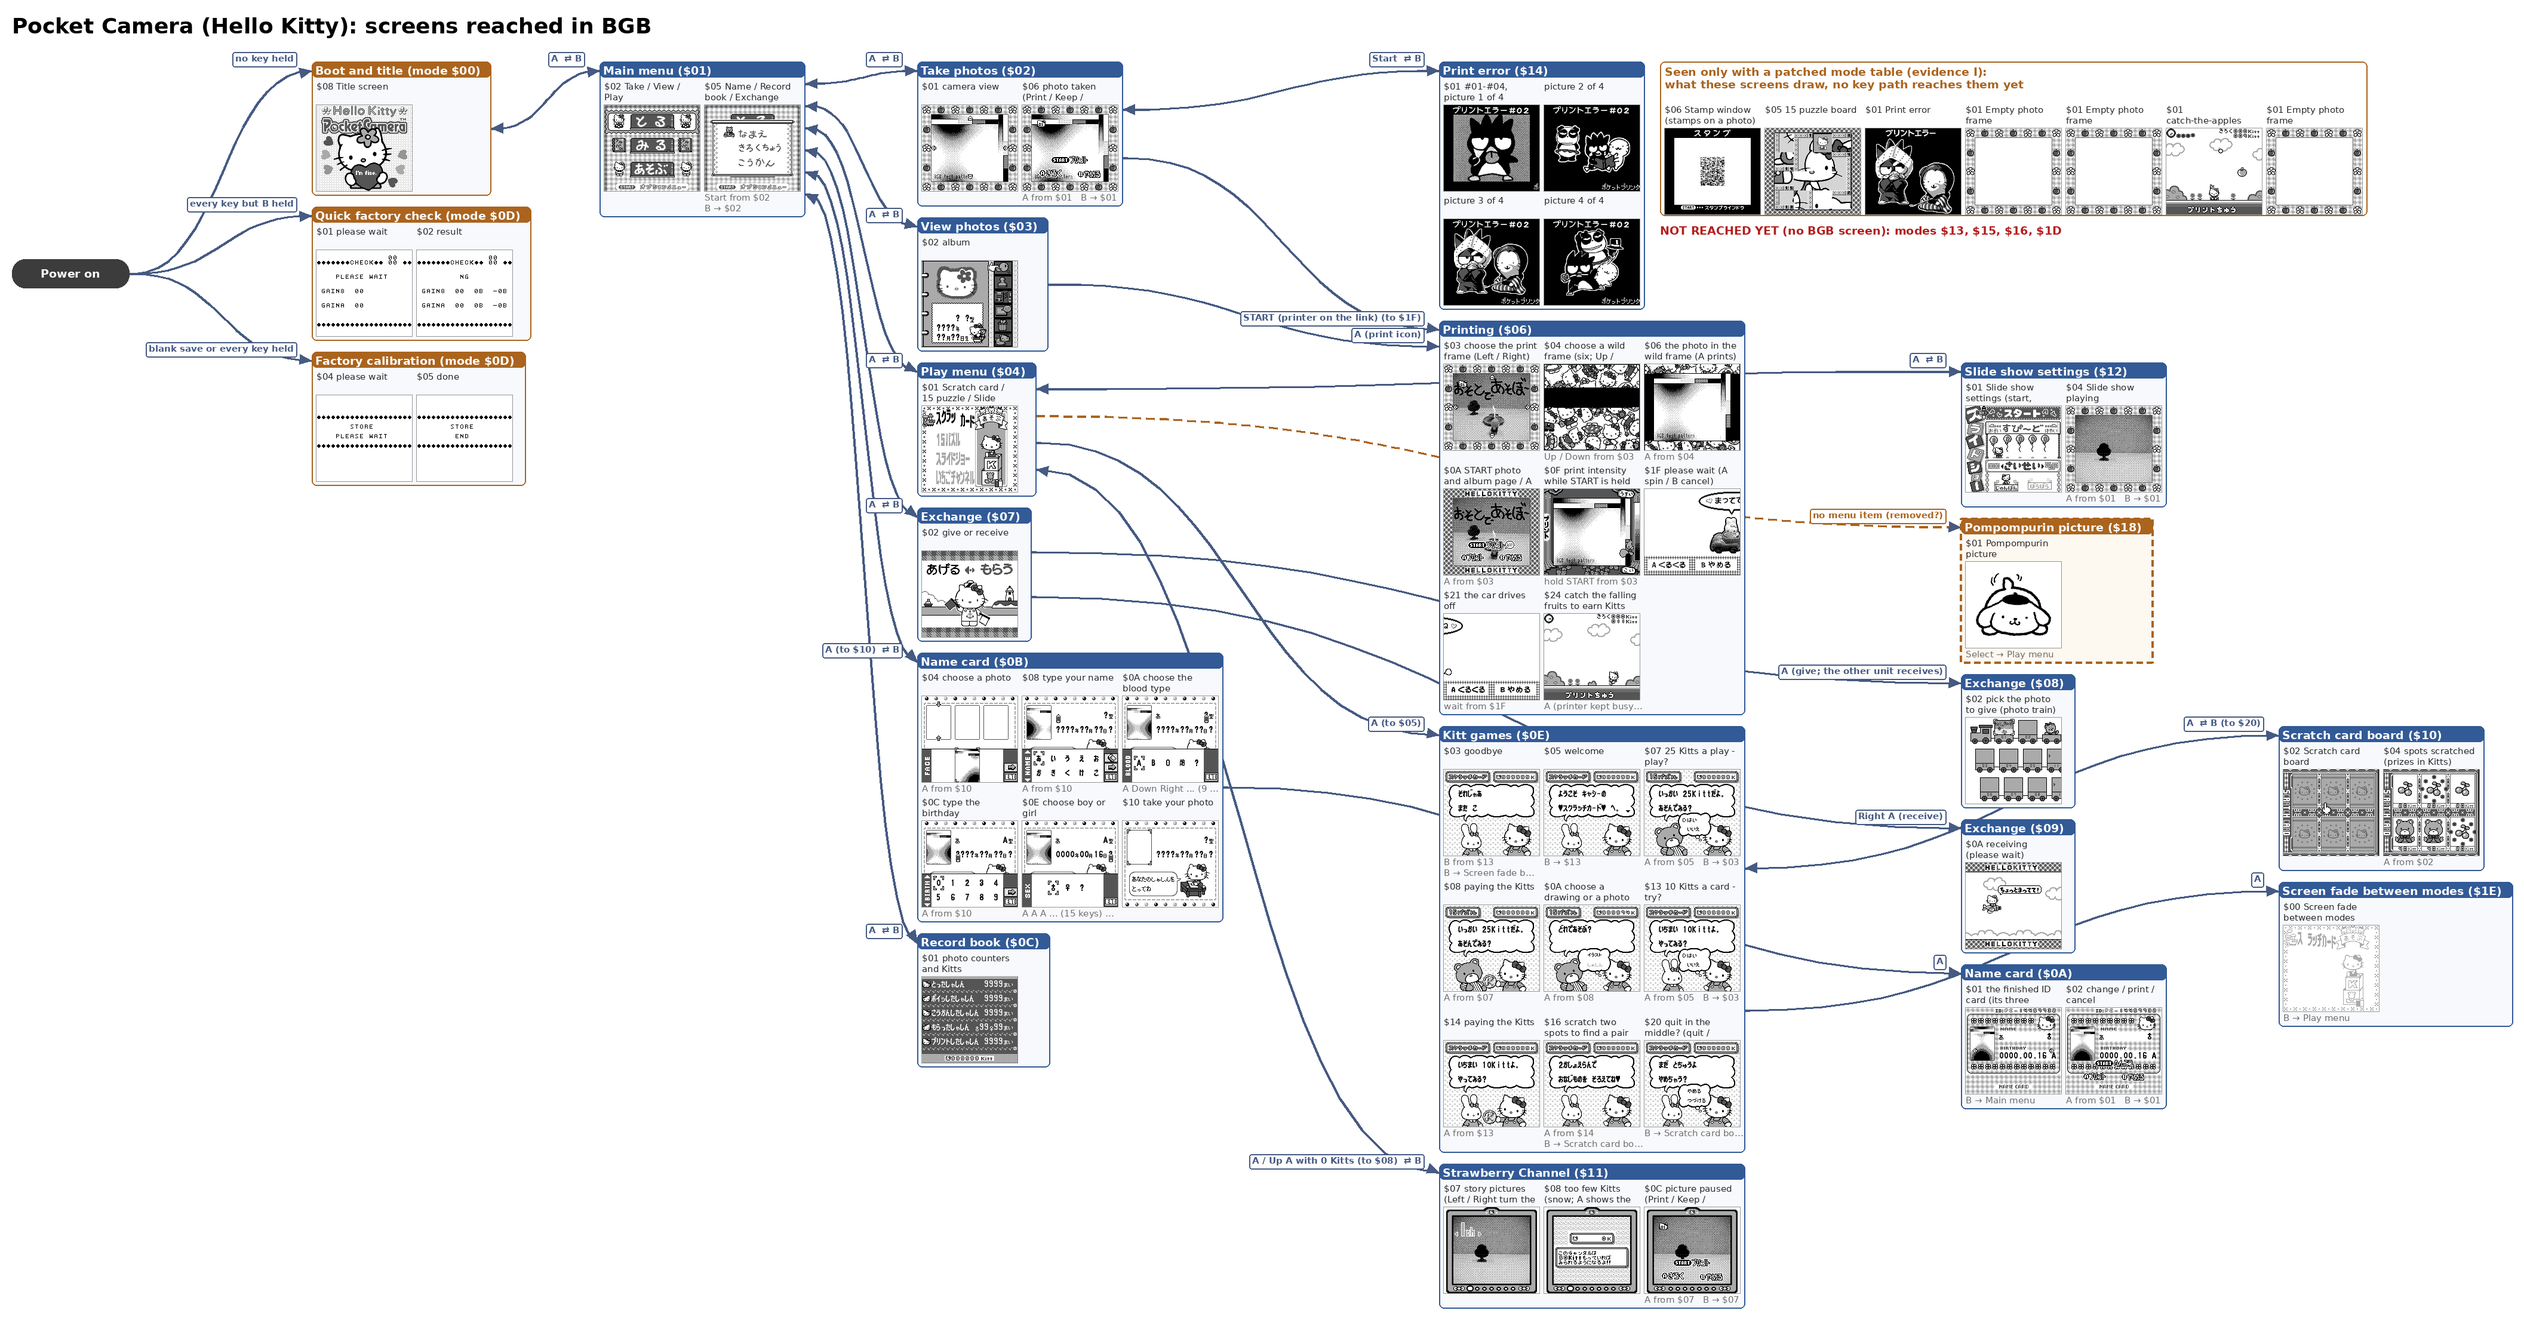
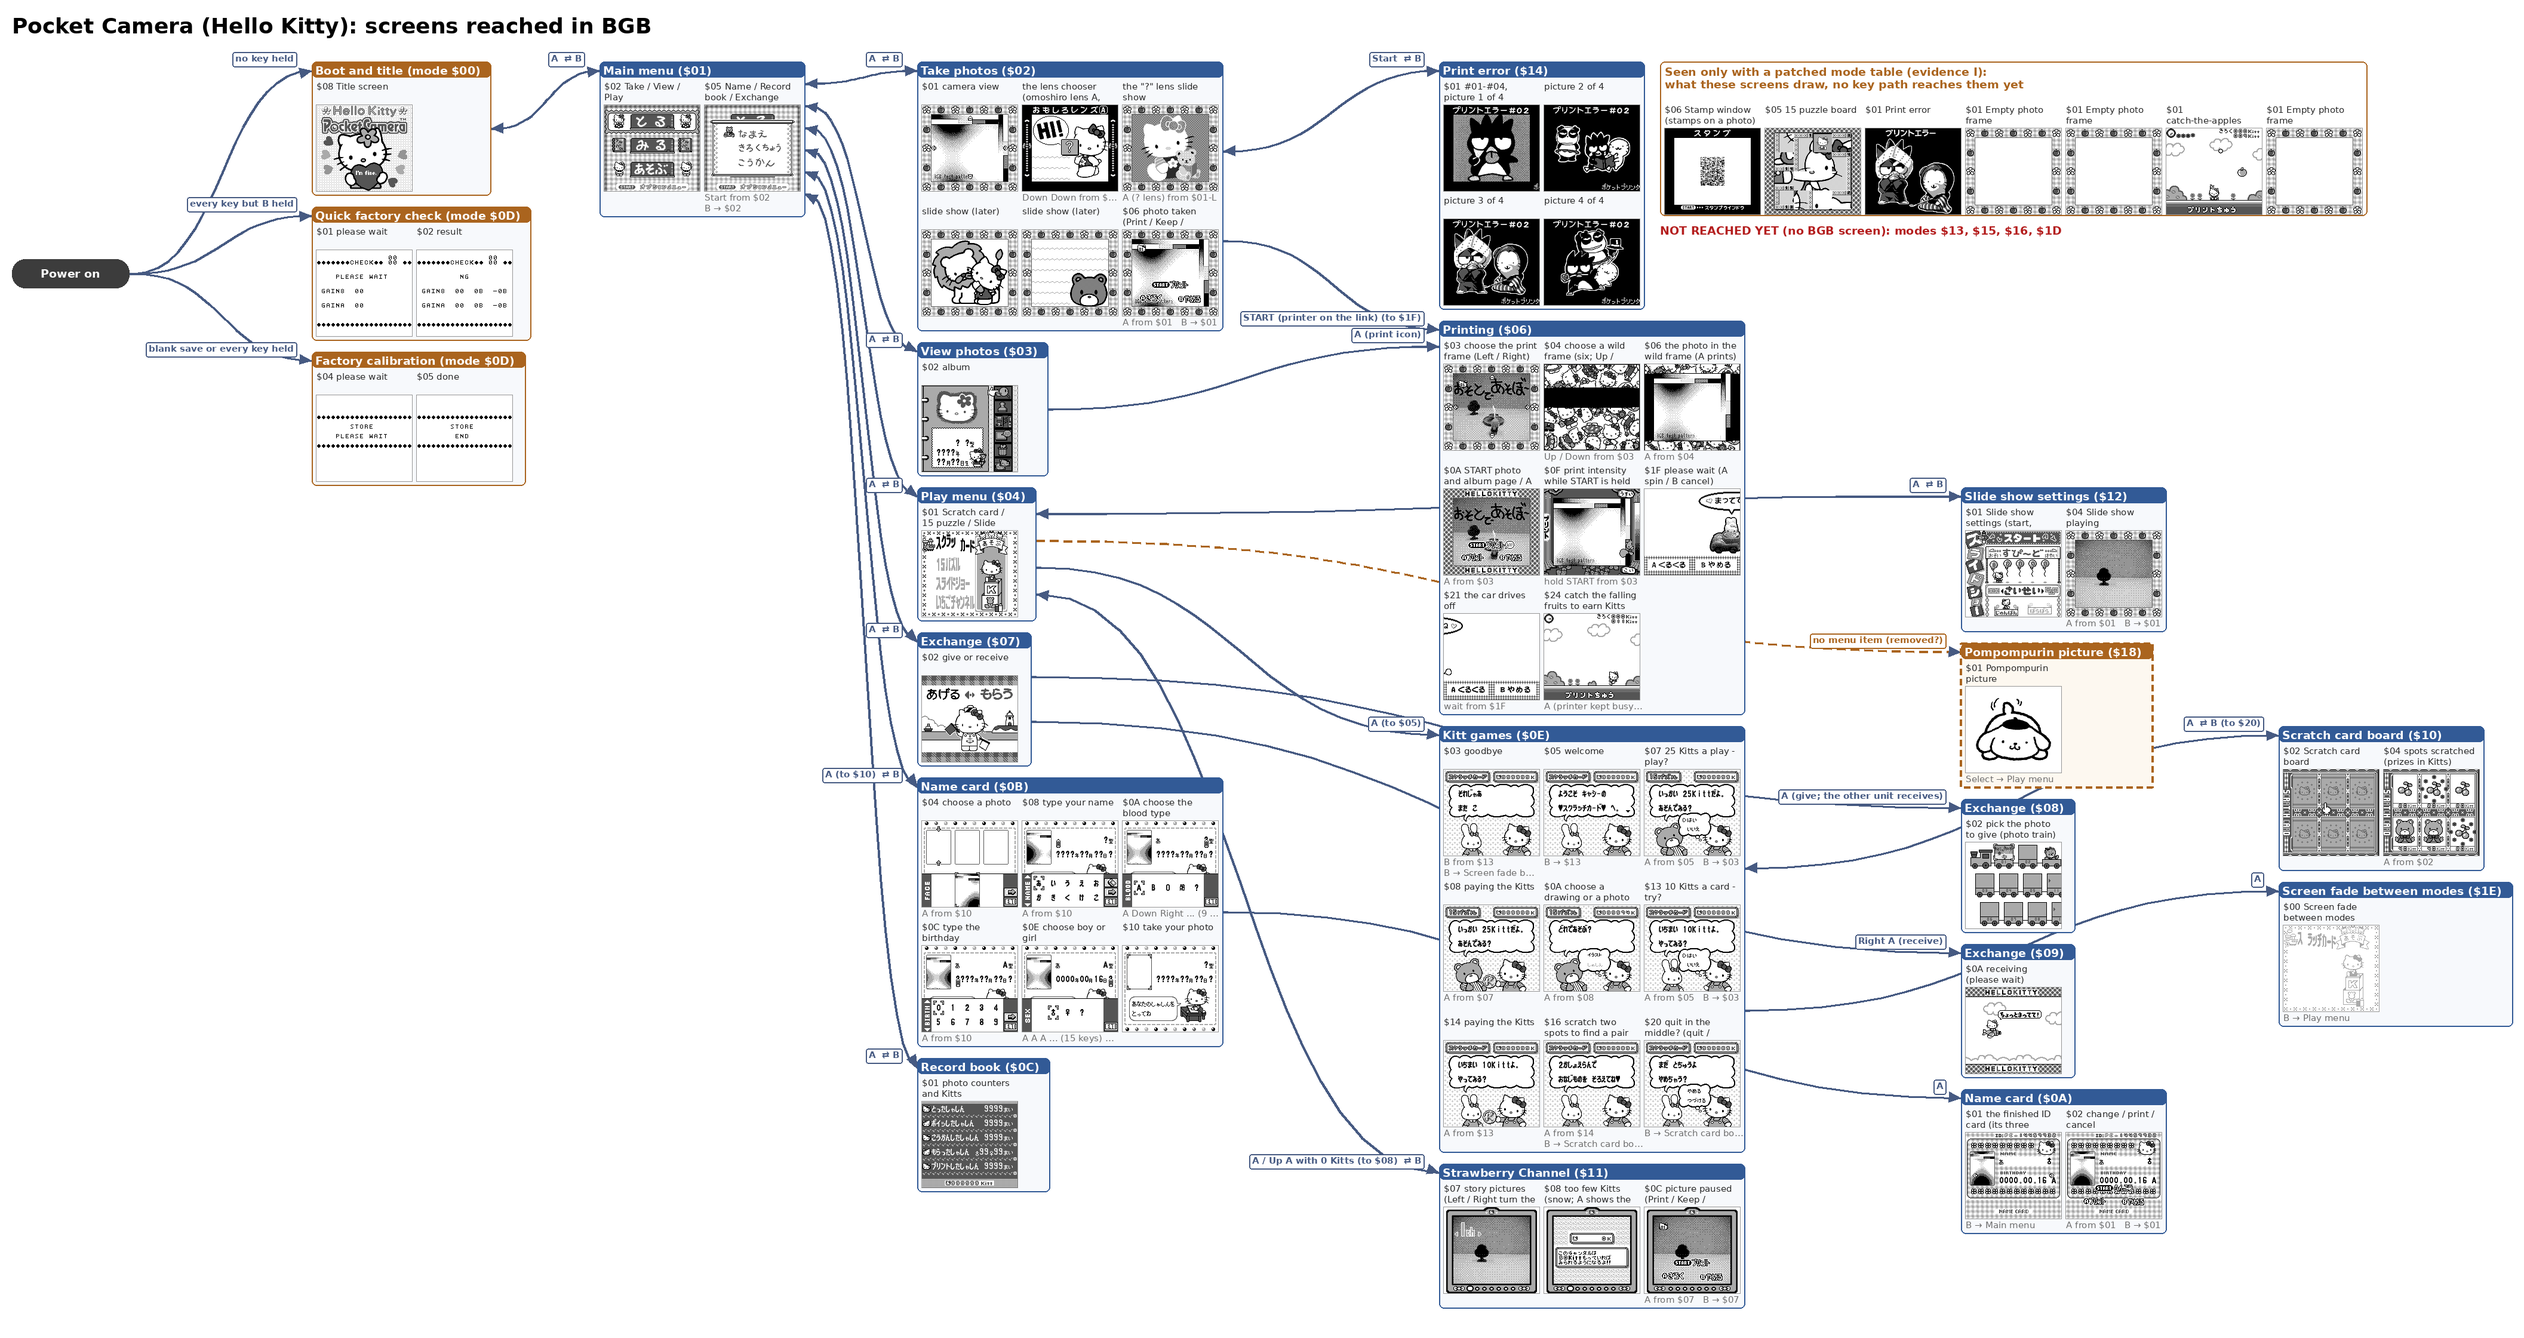
Hello Kitty: the おもしろレンズ ? lens slide show (owner's key path: live view, Down Down, A) in the screen tree, README and trivia; ROADMAP updated after the owner-guided BGB session (wild frames, print screens, lens slide show) with the next steps 13a / 13b
Claude-Session: https://claude.ai/code/session_011bkRcGXfJ3fZfBVgH9Dsk3

Changed region(s): [[0.3123, 0.0312, 0.4996, 0.9058], [0.687, 0.2499, 0.8744, 0.9371], [0.4996, 0.4998, 0.5309, 0.531]]

diff --git a/ROADMAP.md b/ROADMAP.md
@@ -1,6 +1,6 @@
 # Roadmap: what is left for L0-L6, every ROM
 
-Written 2026-11-09, after the consistency audit (steps 1-5) and step 6 items 1-2; regenerated 2026-11-12, after items 1-3 of the order of work below and the prototype's leftover analysis (TCRF assets, copies, parts and variants, PC memory, the older builds' printer library). The levels and the status words are those of `HOWTO_NEW_ROM.md` section 0: `done` only when the level's test holds in full for that ROM, `partial` with what is left, `not started`. The **Status** column of each table must equal the Levels table of the ROM's README; `tools/check_repo_consistency.py` compares them, and the summary at the top of `README.md` too. Update the three together.
+Written 2026-11-09, after the consistency audit (steps 1-5) and step 6 items 1-2; regenerated 2026-11-12, after items 1-3 of the order of work below and the prototype's leftover analysis (TCRF assets, copies, parts and variants, PC memory, the older builds' printer library); updated 2026-11-12 evening after the owner-guided BGB session on Hello Kitty (print screens, wild frames, the おもしろレンズ slide show). The levels and the status words are those of `HOWTO_NEW_ROM.md` section 0: `done` only when the level's test holds in full for that ROM, `partial` with what is left, `not started`. The **Status** column of each table must equal the Levels table of the ROM's README; `tools/check_repo_consistency.py` compares them, and the summary at the top of `README.md` too. Update the three together.
 
 ## Pocket Camera (Japan) (Rev A): the reference
 
@@ -44,18 +44,18 @@ Written 2026-11-09, after the consistency audit (steps 1-5) and step 6 items 1-2
 |---|---|---|
 | L0 | done | - |
 | L1 | done | Every byte is typed; 17,198 bytes (1.6 %) stay of uncertain kind on the layout map (2026-11-12: 23,319 before the two pictures of bank `$11` were named, 51,557 before the owner's kinds by eye, 204,703 before the data names; the largest rest is the bottom half of bank `$0D`, 4,576 B): the `Src_` blocks copied into WRAM buffers and never seen in VRAM, and the 109 leftovers. Their kinds are an L6 question. |
-| L2 | done | - (2026-11-12: the 7,607 red bytes classified by their way in, `trace/red_kitty.csv`: GATE 4,310, BEHIND 1,573, TABLE 1,438, FORCED 263, HAND 20, VECTOR 3; I). Optional: hand verdicts (dead / reachable) for the largest gates, the linked exchange first, as the Japanese ones (docs §16.21). |
+| L2 | done | - (2026-11-12: the 7,607 red bytes classified by their way in, `trace/red_kitty.csv`: GATE 4,310, BEHIND 1,573, TABLE 1,438, FORCED 263, HAND 20, VECTOR 3; I). Optional: hand verdicts (dead / reachable) for the largest gates, the linked exchange first, as the Japanese ones (docs §16.21). New (2026-11-12 evening): the owner-guided BGB paths (wild-frame print, the print intensity, the four print-error pictures, the おもしろレンズ slide show) reach code and data the core runs never did; they are screenshots and printed pages only, not yet coverage (replay them in the core, `tools/kitty_core_paths.py`, so that the reachability map credits them). |
 | L3 | done | - (2026-11-12: 0 placeholder; every data block named by kind and consumer, `tools/kitty_data_names.py`; 109 leftovers `Leftover_BB_AAAA`, I, owner rule; 40 doubts in `disasm/sym_unconclusive_kitty.md`, 14 of them final). |
 | L4 | not started | 1. The WRAM access and summary tables (`tools/wram_db.py` reads this trace format). 2. RAM names with a scope per row. 3. Constants: modes and states (`disasm/mode_names_kitty.csv` exists), keys, sound ids. 4. The SRAM access table and map (`tools/sram_db.py` reads this trace format; the layout needs real Kitty saves; the Kitt counter and its unlock thresholds belong here). |
 | L5 | not started | A `tools/make_source.py` preset for this ROM; a source tree that builds byte-exact. |
-| L6 | not started | 1. Its character set (kana; the image-effect names drawn as sprite text). 2. The Kitt unlock milestones read in the code. 3. The kinds of the 17,198 uncertain bytes (L1: `Src_` blocks copied into WRAM buffers, the leftovers) and the 27 data names whose context is only the engine that reads them (runs that reach their screens). 4. Owner validation of names. |
+| L6 | not started | 0. Done 2026-11-12 evening (owner-guided, BGB): the six print-frame tails are the side borders of the six wild frames (`Frame_BB_AAAA_WildFrameSides`, used); the print intensity screen; the four print-error pictures picked by `Rng_Next & 3`; the おもしろレンズ "?" lens slide show. Left from that session: the stamps (album stamp icon, stamp window: mode `$05`, reached by keys), the no-photo picture `11:7000` (no key path found: it needs a photo number with no slot). 1. Its character set (kana; the image-effect names drawn as sprite text). 2. The Kitt unlock milestones read in the code. 3. The kinds of the 17,198 uncertain bytes (L1: `Src_` blocks copied into WRAM buffers, the leftovers) and the 27 data names whose context is only the engine that reads them (runs that reach their screens). 4. Owner validation of names. |
 
 ## Pocket Camera Prototype (Japan) ("DEBAGAME")
 
 | Level | Status | Left to do |
 |---|---|---|
 | L0 | done | - |
-| L1 | done | 136,182 bytes (13 %) of uncertain kind on the layout map (2026-11-12, after the head rows of banks `$1C`, `$1D`, `$23`, `PROGRAM` and the edited glyphs; 526,366 on 2026-11-10): the 250 unidentified leftover runs (82,860 B, `Leftover_BB_AAAA`: byte-per-pixel and ASCII-digit buffers of banks `$0C`-`$10` and `$12`-`$19`, no counterpart among this ROM's assets, no proof of PC memory) and the old builds' assets known only by name (`PROGRAM`, `HOI_0`, `KAO_1`-`3`). Settled: the TCRF assets, copies, parts and variants, the source text, 14 PC-memory runs, the older builds' bank-0 code and data (step 5). |
+| L1 | done | 136,182 bytes (13 %) of uncertain kind on the layout map (2026-11-12, after the head rows of banks `$1C` (an edited strip of face photo 10, owner), `$1D` (an edited strip of face photo 8), `$23`, `PROGRAM` and the edited glyphs; 526,366 on 2026-11-10): the 250 unidentified leftover runs (82,860 B, `Leftover_BB_AAAA`: byte-per-pixel and ASCII-digit buffers of banks `$0C`-`$10` and `$12`-`$19`, no counterpart among this ROM's assets, no proof of PC memory) and the old builds' assets known only by name (`PROGRAM`, `HOI_0`, `KAO_1`-`3`). Settled: the TCRF assets, copies, parts and variants, the source text, 14 PC-memory runs, the older builds' bank-0 code and data (step 5). |
 | L2 | done | - (2026-11-12: the 398 red bytes classified, `trace/red_proto.csv`: GATE 354, BEHIND 41, VECTOR 3; I). Optional: credit the BGB runs of the tester (they are not in the coverage arrays). |
 | L3 | done | - (2026-11-11, extended 2026-11-12: 0 placeholder; 1,346 leftovers `Leftover_BB_AAAA[_<what>]`, 887 of them I and 459 C (the older builds' routines and data whose address and name a symbol table gives), owner rule; the TCRF unused assets named `Unused_TCRF_*`). Optional: confirm the 45 I names (developers' names matched from the two older builds) in the code or in BGB. |
 | L4 | done | - (2026-11-12: 163 RAM names, C 126 / I 37; `wram/`, `sram/`, `SEQ_*` constants; 0 raw RAM operand). Optional: the `$B000-$BFFF` SRAM area (?) confirmed in BGB. |
@@ -89,4 +89,6 @@ The parity program, cheapest and most enabling first (sessions are estimates):
 10. **Hello Kitty L1 to 0 uncertain bytes** (1-2 sessions): follow the `Src_` blocks into their WRAM buffers (who reads the buffer, what it becomes on screen), and the kinds of the leftovers.
 11. **Hello Kitty L4** (3-4 sessions: WRAM, HRAM, SRAM with real saves, RAM names, constants), then **Hello Kitty L5** (1-2 sessions).
 12. **L3 doubts of both ROMs** settled by BGB runs where a run can (alongside 8-9).
+13a. **Hello Kitty, owner-guided screens** (about 1 session, BGB): the stamps (the album stamp icon and the stamp window, mode `$05`: every stamp set, then the tree), the おもしろレンズ lenses one by one (the slide show is one of them), the no-photo picture `11:7000` from a save with a gap in the photo numbers (forced, I). Run printer-linked BGB jobs alone: with the CPU shared, the link handshake stalls (2026-11-12).
+13b. **Credit the BGB-only paths** (about 1 session): replay the owner's key paths of 13a and of 2026-11-12 (wild-frame print, print intensity, print without a printer, the lens slide show) in the core with `tools/kitty_core_paths.py`, so that the reachability map and the doubts list count them.
 13. **L6 everywhere** (open-ended): the shared retail source, character sets and texts, the open questions of `docs/12`, owner validation of names (with the printer routines' developers' names), the build history of the prototype.

diff --git a/roms/hello_kitty/README.md b/roms/hello_kitty/README.md
@@ -53,6 +53,7 @@ The Kitty engine is not the Japanese one, so this ROM has its own tracer, `tools
 * **Printer errors (C, BGB, 2026-11-08).** `PRN_ERR` of the printer helper (§16.16) replaces printer replies: no answer to INIT or `$FF` gives **print error #02** ("is the Pocket Printer connected?"), as does bit 4 (packet error) on one inquiry while printing; held for 200 inquiries while printing, bit 5 (paper jam) gives **#03** ("is the print sticker jammed?"), bit 6 gives **#04**, bit 7 (low battery) gives **#01** (mode `$14` state `$01`, [`screens/print_errors.png`](screens/print_errors.png)); bits 0 to 3 are ignored and the print completes.
 * **Print intensity and the album page (C, BGB, 2026-11-12, owner's hint).** On the print frame screen (mode `$06` state `$03`), START held shows the print intensity (state `$0F`, `Mode06_State0F`: うすい light at the top, こい dark at the bottom, a squirrel on the scale that Up / Down move); Up / Down instead fade to state `$02` and then `$04`, the **wild frames** (taller frames printed around the photo: the Hello Kitty pattern, the house, the stickers, Kitty's Family, MEMO, HELLO KITTY; Up / Down change the frame, Left / Right return to the normal frames, A shows the photo in it, state `$06`, then prints it).
 * **Printing with no printer: four error pictures at random (C, BGB, 2026-11-12, owner's hint).** START or A in the print menu with nothing on the link gives print error #02, its message sliding from right to left under a picture that `Mode14_State00` draws at random: `Rng_Next & 3` picks one of the four 3-byte records of `06:4464` (`3E:5C00` Badtz-Maru alone, `3E:6A00` three characters, one reading a book, `3F:4000` two characters in hoods, `3D:6A00` three characters and a top hat), $800 bytes copied to `$9000` and $600 to `$8000`; twelve BGB runs with different timings showed all four (the screen tree shows them in the print error panel).
+* **The おもしろレンズ slide show (C, BGB, 2026-11-12, owner's key path).** In the live view (mode `$02` state `$01`), Down, Down open おもしろレンズ Ⓐ (the lens chooser, Hello Kitty saying HI! next to a "?" lens); A on the "?" lens starts a slide show of Hello Kitty pictures inside the camera frame (Kitty with her teddy bear, Kitty on lined paper, Kitty with a lion, a bear face, Kitty with a speech balloon, blank pages between them), every few seconds a new picture; the game stays in mode `$02` state `$01`. The 96 picture effects of `04:5E8A`, forced one by one in BGB (each in a patched copy), are transforms of the live picture only: the slide show is not one of them.
 * **Photo exchange (C, BGB, 2026-11-08).** Two linked BGB units (`tools/kitty_bgb_link.py`), the giving one with a photo it has just taken (title A, take A, shutter A, keep A, B): both open the exchange (mode `$07`), the giver presses A on "あげる" (give) first and the receiver Right A ("もらう", receive); the giver picks the photo on the photo train (mode `$08`, states `$00`-`$05`) and sends it (mode `$09` states `$01`-`$07`), the receiver waits ("ちょっとまってて", states `$08`, `$0A`, `$0E`, `$0F`, `$10`); both return to mode `$07`, and the receiver's SRAM changes in its first photo slot. When the giver has no photo, both show "no photo to give / receive" after a time-out. `Link_SumSlotBuffer` (unused in the Japanese ROM) runs here.
 * **Super Game Boy (C, BGB, 2026-11-08).** BGB as a Super Game Boy (`SystemMode=2`, `tcrf_check/tools/bgb_sgb_capture.sh`) shows a pink houndstooth border with the "Hello Kitty" logo and four coloured Kitty faces in the corners ([`screens/sgb_border.png`](screens/sgb_border.png), the title screen, 256 x 224); read watchpoints on the five transfer sources of bank `$08` (`08:40D0`, `4146`, `41F6`, `5206`, `6216`) all hit, so the never-read data of bank `$08` is the SGB data.
 * **Strawberry Channel without Kitts (C, BGB, 2026-11-08).** With 0 Kitts the channel shows snow (mode `$11` states `$03` / `$08`, `StrawberryCh_LockedCallback`) and A shows the price ("this channel can be watched with 50 Kitts"; prices `07:4F3A`: 50, 800, 100, 400, 200, 2,000 Kitts and one free channel).

diff --git a/README.md b/README.md
@@ -177,6 +177,7 @@ L0-L3 done (2026-11-12: every routine entry and every data block named, 2,224 na
 |---|---|---|
 | The Pompompurin picture | Game Genie `183-63B-E6E` | TCRF (not tested here); BGB shows the screen with the mode byte forced to `$18`, I |
 | Print intensity | album print, on the print frame: hold START, then Up / Down move the squirrel between うすい (light) and こい (dark) | owner; BGB, C |
+| The ? lens slide show | camera live view, Down, Down (おもしろレンズ Ⓐ), A on the "?" lens, then wait: Hello Kitty pictures one after another in the camera frame | owner; BGB, C |
 | Four print error pictures | print with no printer connected: error #02 with one of four pictures drawn at random (`Rng_Next & 3`, table `06:4464`), the message sliding under it | owner; BGB (12 runs), C |
 
 ### Pocket Camera Prototype (Japan) ("DEBAGAME")
